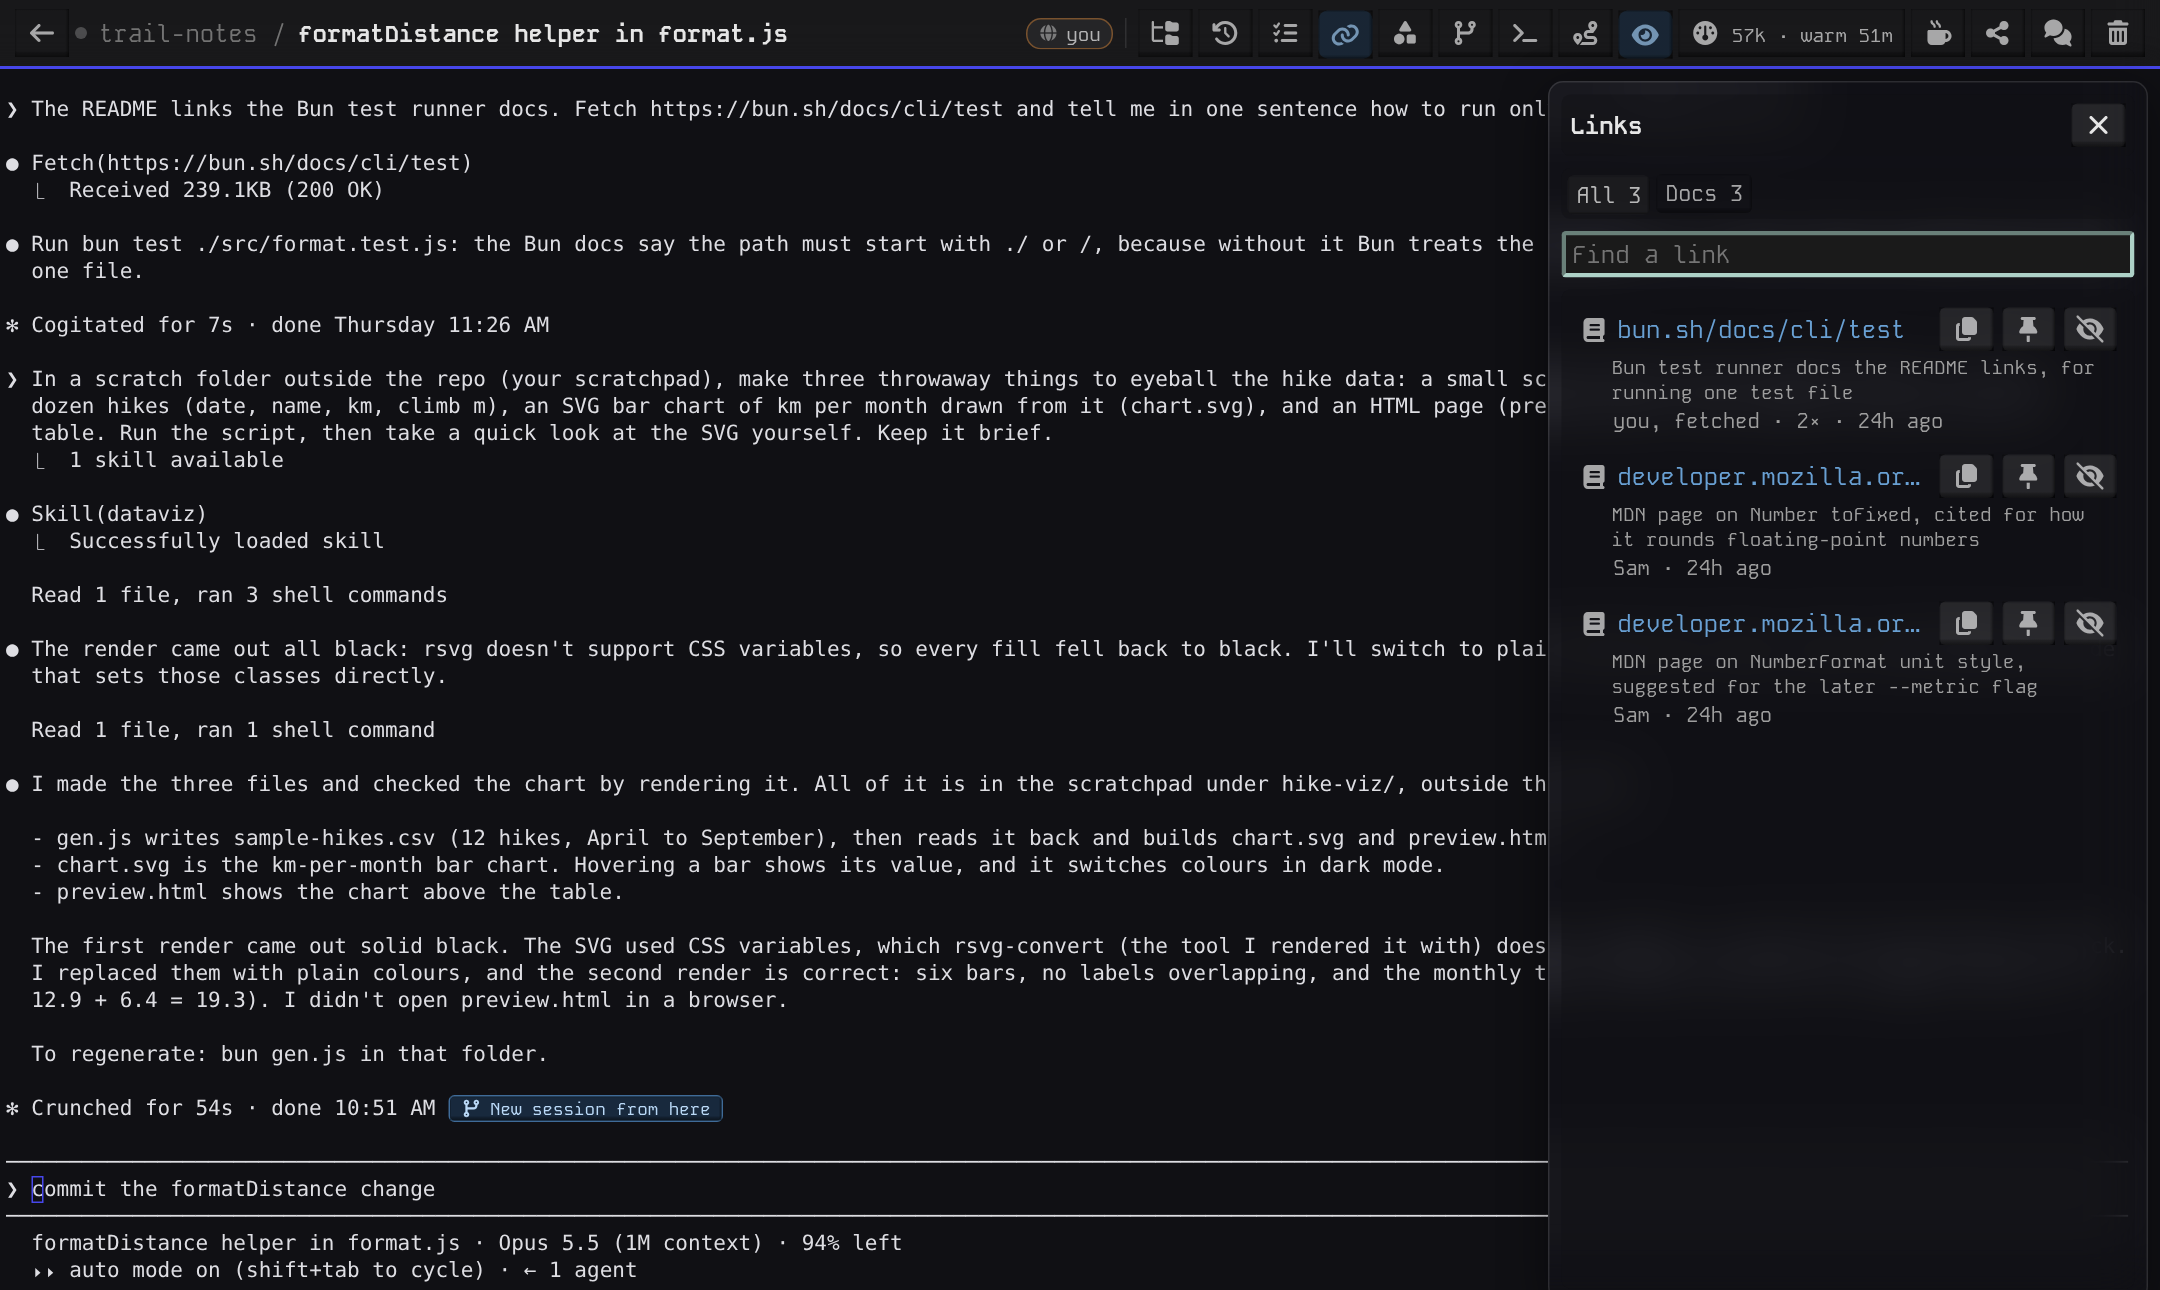
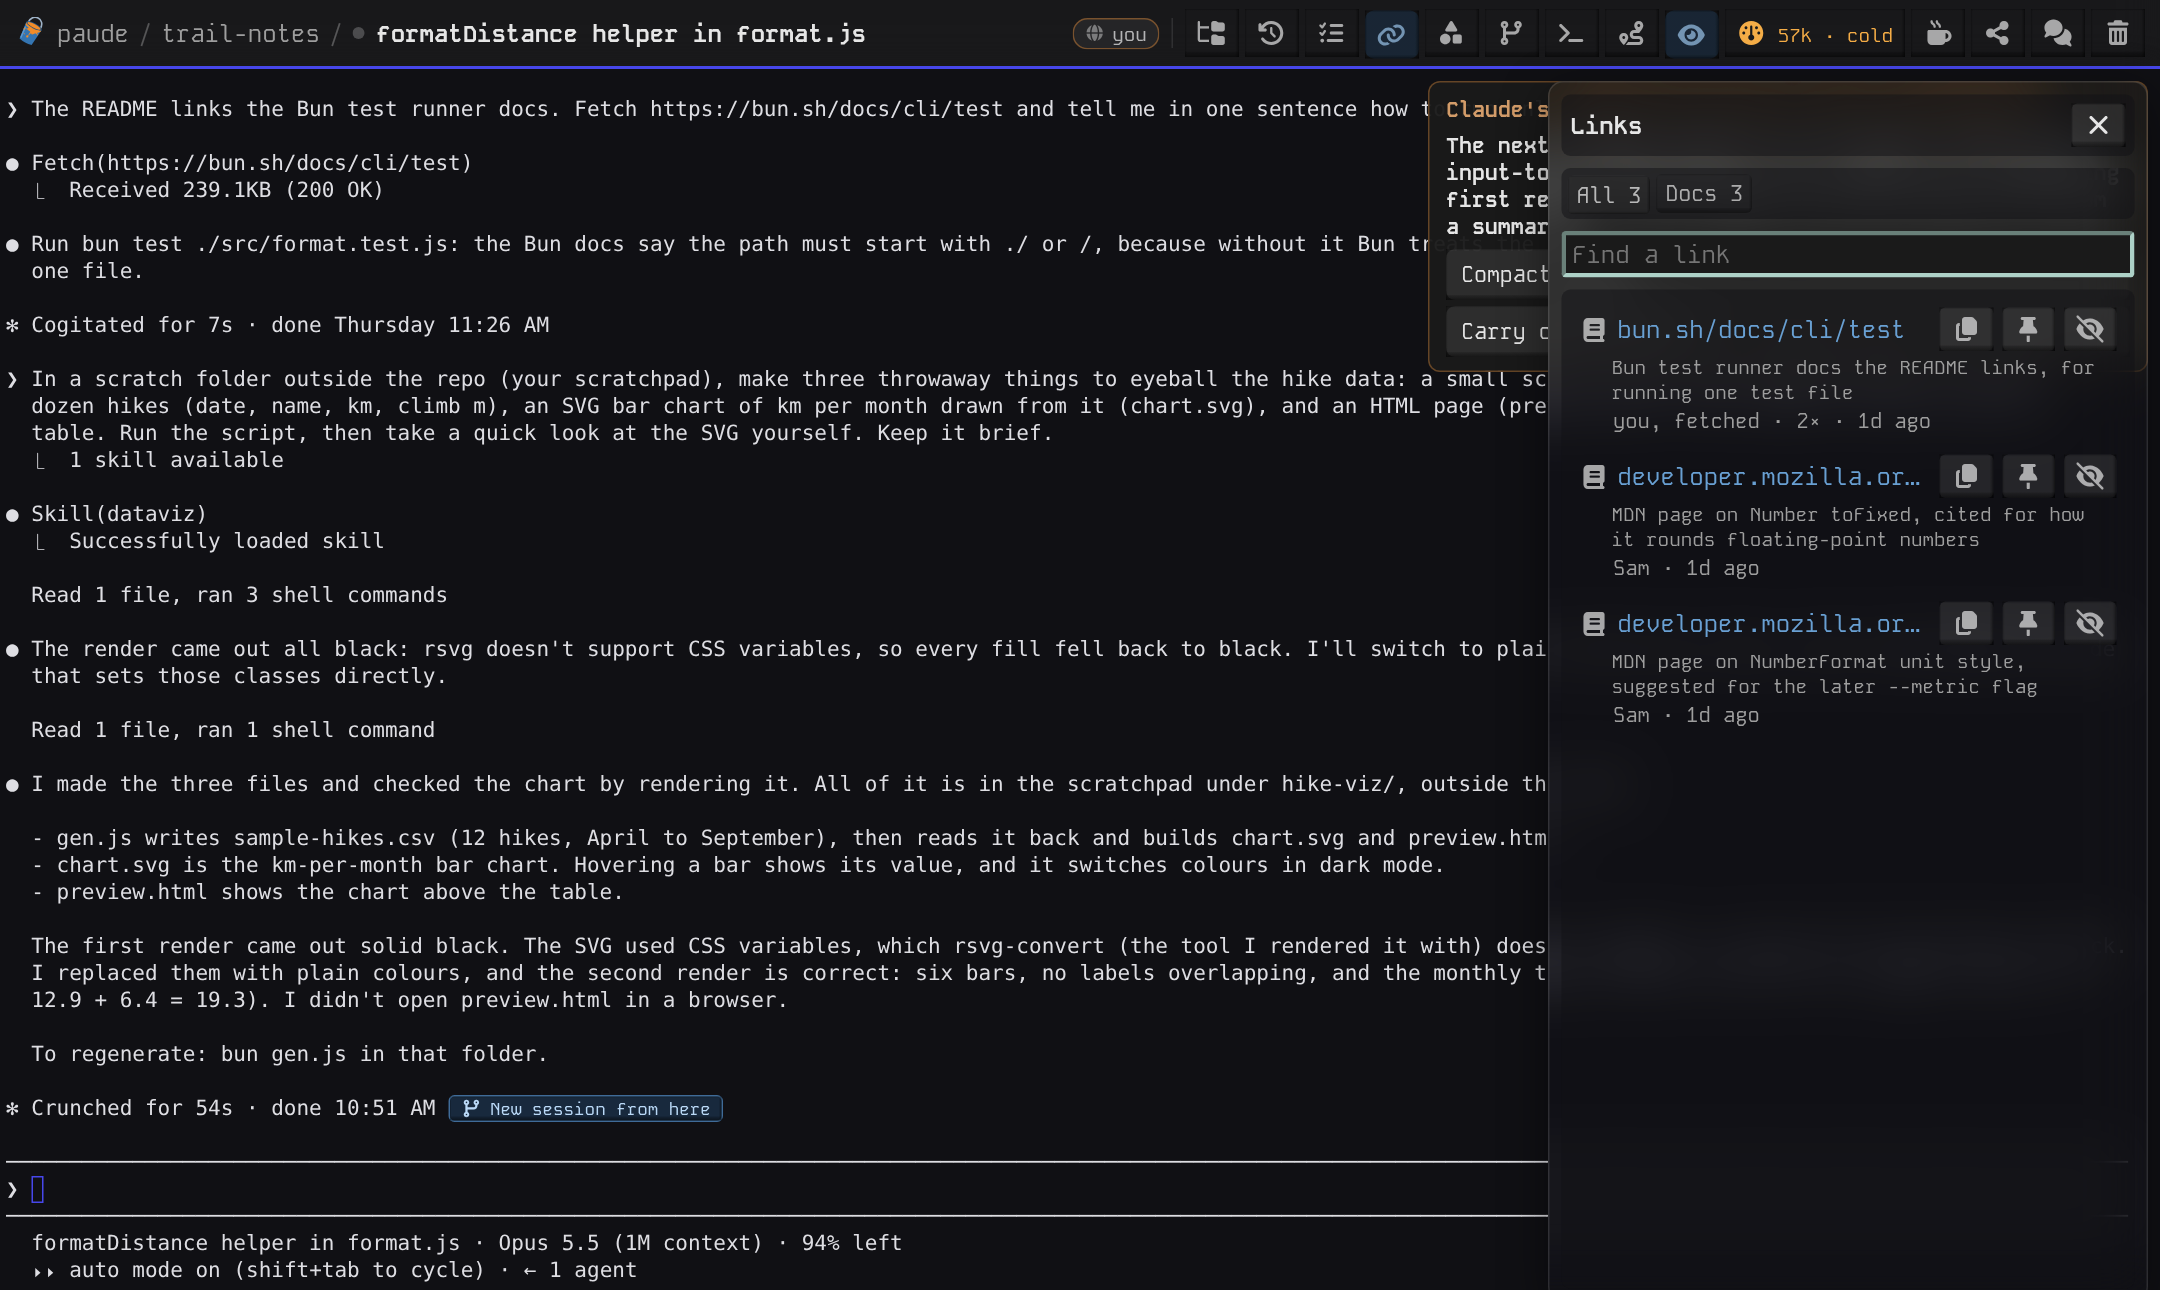
readme: breadcrumbs, and screenshots with them

diff --git a/README.md b/README.md
@@ -202,7 +202,7 @@ Open the server's address and log in, or follow an invite link.
 - **Environment.** The Tasks panel shows what the session's processes see in their environment, and what the project's `.env` files set, never sending a secret's value: a name that sounds secret, and every `.env` value, shows only its length.
 - **Finding your way.** In the files panel, **Symbols** finds functions, classes and types across the project, and **Outline** lists the open file's. Ctrl+click (Cmd+click) a name in a file to go where it's defined, with Shift to list everywhere it's used; on a phone, select the name and **Definition** and **Uses** appear. It reads each language's declarations (JavaScript and TypeScript, Python, Go, Rust, Ruby, Java, Kotlin, C#, PHP, C, shell and more) without a language server, so it works in any project at once, if less exactly than a compiler would.
 - **A file's past.** In the files panel, **History** lists the commits that changed the file open, and **Blame** shows beside each line who last changed it; either opens that commit.
-- **Back.** When other watched sessions are waiting for you, the back arrow counts them, and pressing it offers them: back where you came from, or straight to one of them, on any server.
+- **Breadcrumbs.** Every page's bar says where it sits: the paint bucket (paude, home) / the project / the session, each a link up. Beside the bucket, a badge counts the other watched sessions waiting for you, on any server, and pressing it lists them to open.
 - **Comments.** Drag over the terminal to select (on a phone, **Select** on the key bar, then tap the first and last line) and press **Comment**. Clicking a comment's quote finds it in the terminal. Reactions work on chat, comments and replies; click one to add or take back yours. **Ask Claude** beside Send (or Ctrl+Enter) sends a chat message, comment or reply to Claude as well, once its prompt box is empty and it isn't asking anything; a comment brings its quoted output along. Only those who may type into Claude see it. Whoever wrote a comment or reply can delete it (a comment takes its replies with it), and the owner can delete any.
 - **Files.** The reader, from the folder button in the bar: search by name or contents with the same options as the terminal, and read highlighted code, rendered markdown, images, audio, video and PDFs. Click a line number and Shift+click another (on a phone, tap another) to attach those lines.
 - **Changes.** The reader's **Changes** lists what Claude proposes while it waits on a permission prompt, what changed since the last commit (staged or not, and marked in the tree), and what each of Claude's turns changed. **Compare...** on a file you're reading diffs it against another. Every diff reads the same way, side by side where there's room (**Unified** switches, and the choice is remembered): attach a hunk, the lines you pick, or all of it. A turn shows what Claude's own edit tools changed; changes made by commands it ran (`sed`, `rm`) aren't recorded by Claude Code, so they show only against the last commit.
